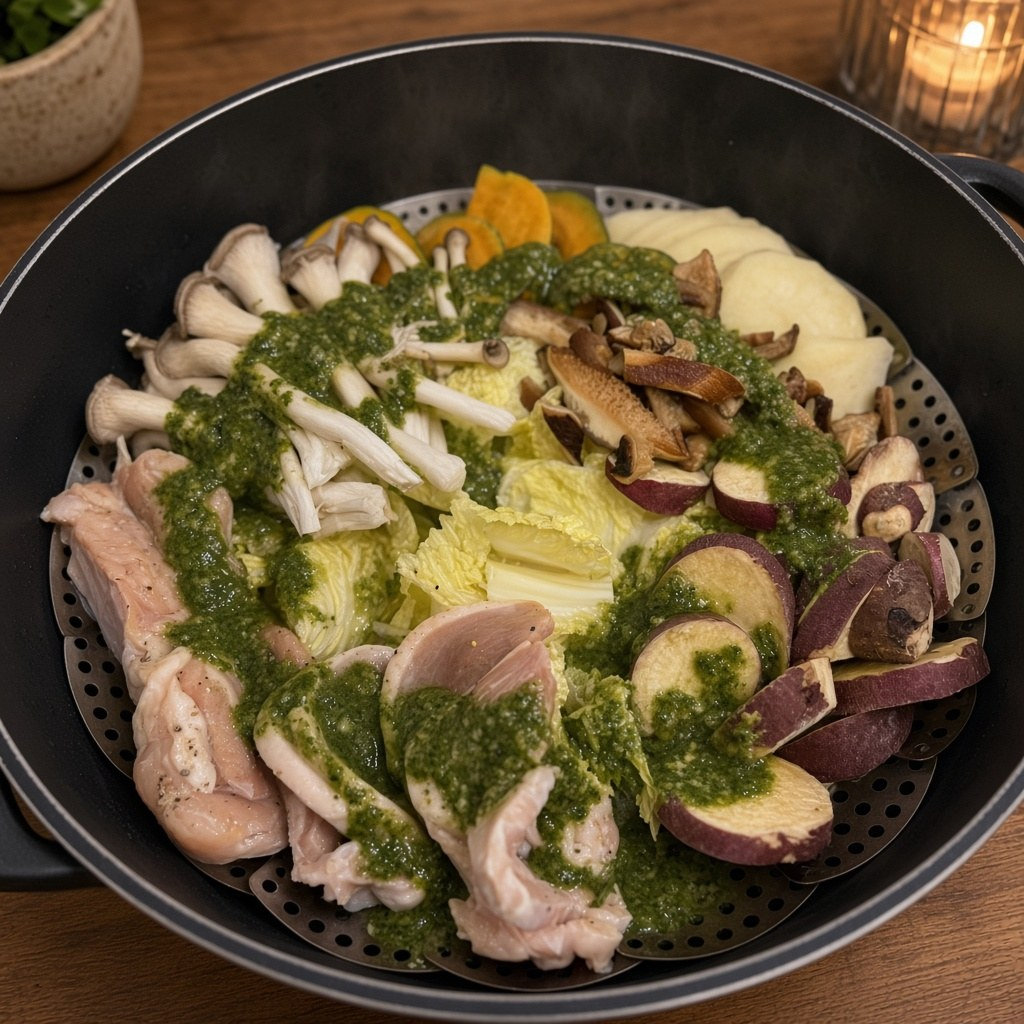
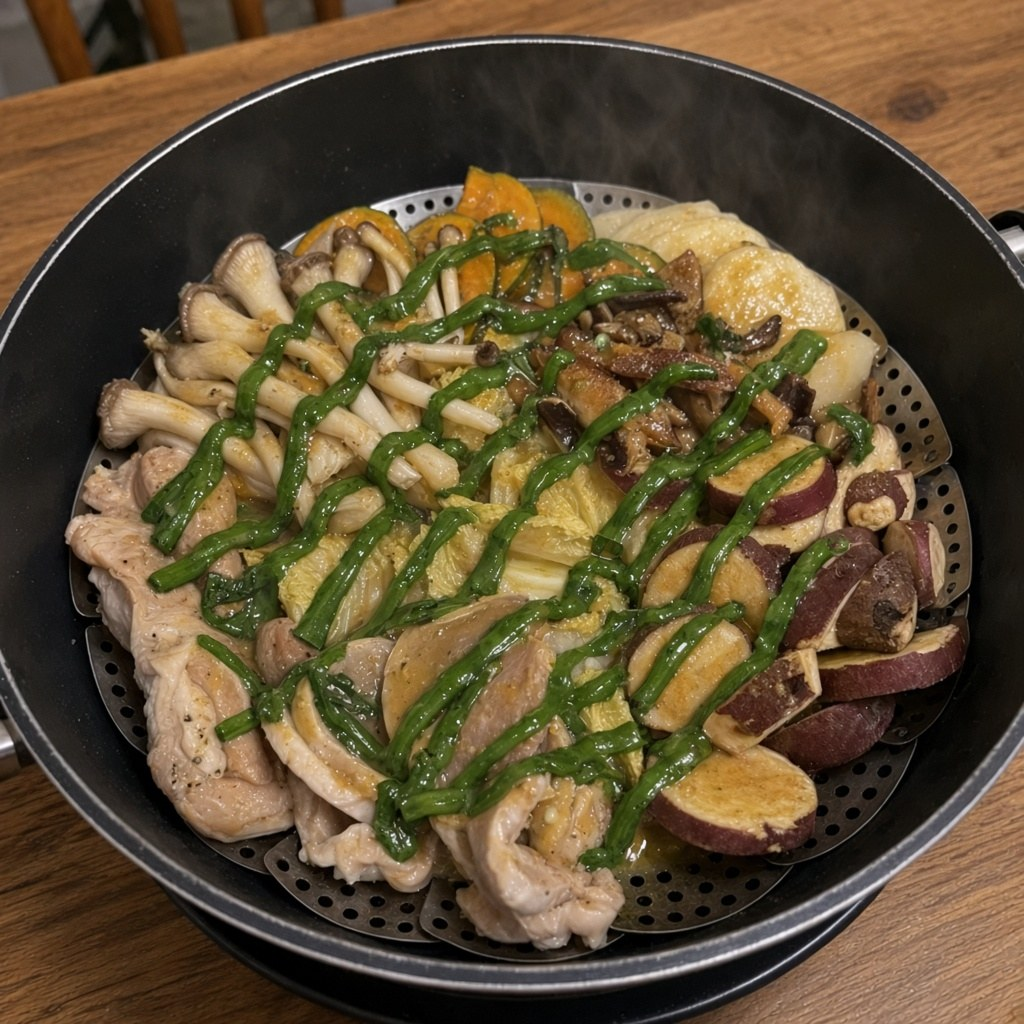
fix: cook steam-buchujang hero (no raw chicken)
Replace #9 with fully steamed protein and vegetables under buchujang drizzle; bump dinner asset rev.

diff --git a/tests/dinner-visual.test.js b/tests/dinner-visual.test.js
@@ -22,7 +22,7 @@ test('maps 야채찜 + garlic soy to prebaked steam composite', () => {
     patternName: '야채찜',
     sauceName: '마늘 간장 소스',
   });
-  assert.match(v.imageSrc, /dinner\/steam-garlic-soy\.jpg\?v=.*20261111f/);
+  assert.match(v.imageSrc, /dinner\/steam-garlic-soy\.jpg\?v=.*20261111g/);
   assert.equal(v.sauceShortName, '마늘 간장 소스');
   assert.equal(v.sauceTextureSrc, null);
 });

diff --git a/src/domain/dinnerVisual.js b/src/domain/dinnerVisual.js
@@ -91,7 +91,7 @@ export function resolveDinnerVisual(state, dinnerLike = {}) {
 }
 
 /** Bump when replacing public/dinner/*.jpg in place so SW/CDN drop old bytes. */
-const DINNER_ASSET_REV = '20261111f';
+const DINNER_ASSET_REV = '20261111g';
 
 function assetVersion() {
   const id = String(APP_BUILD_ID || '');
